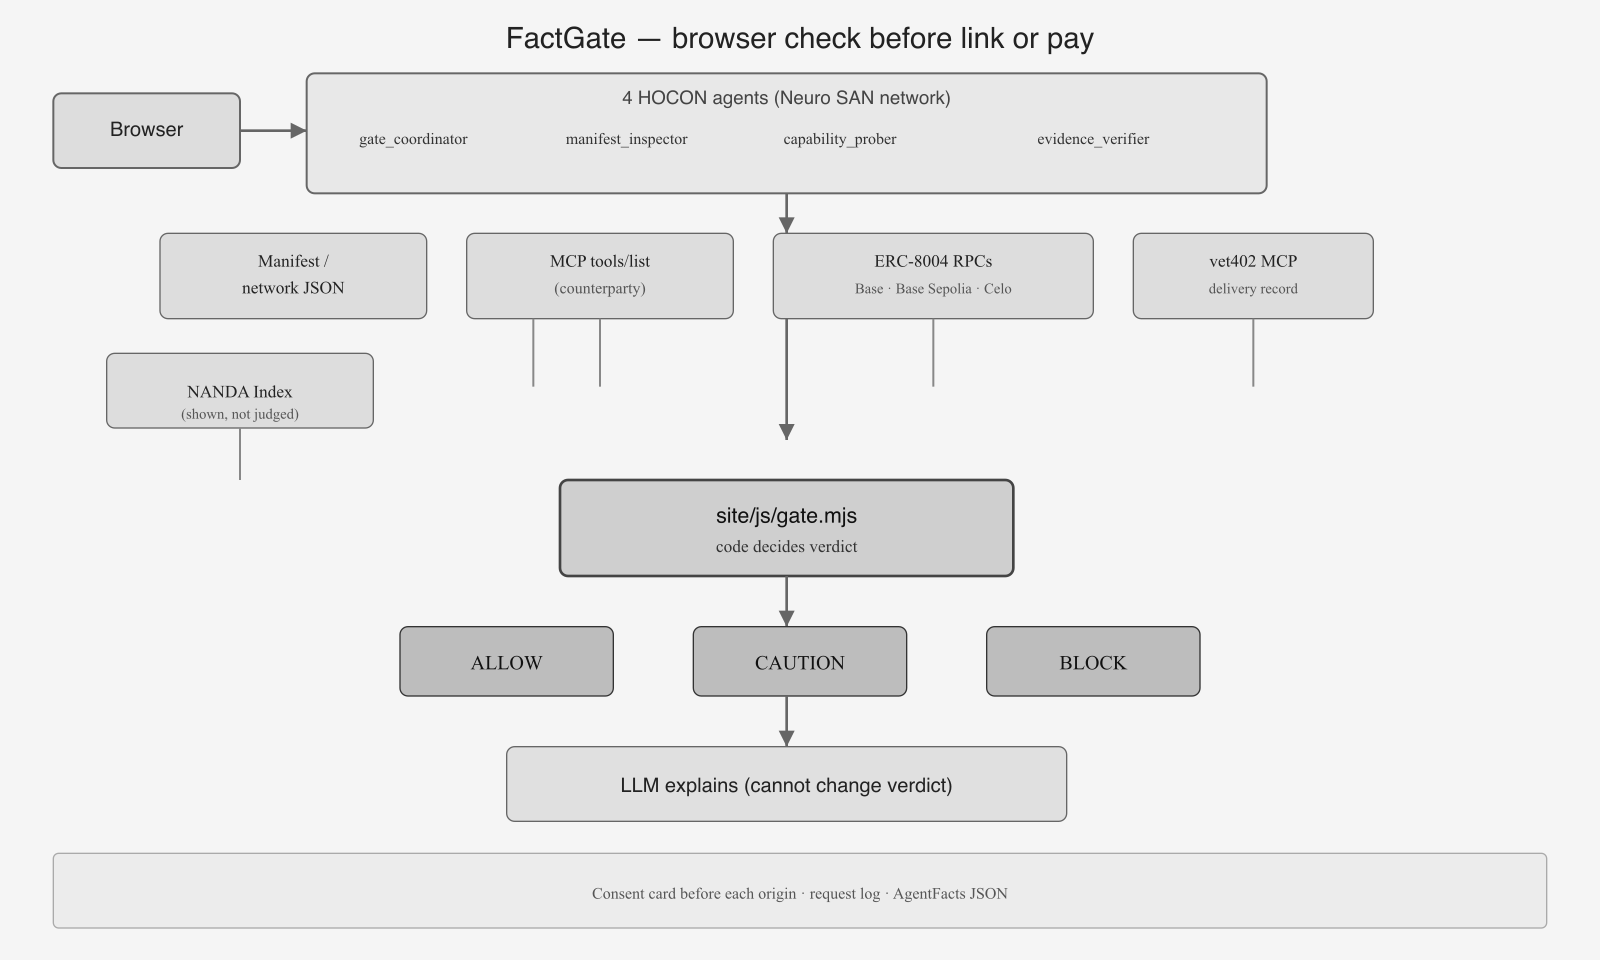
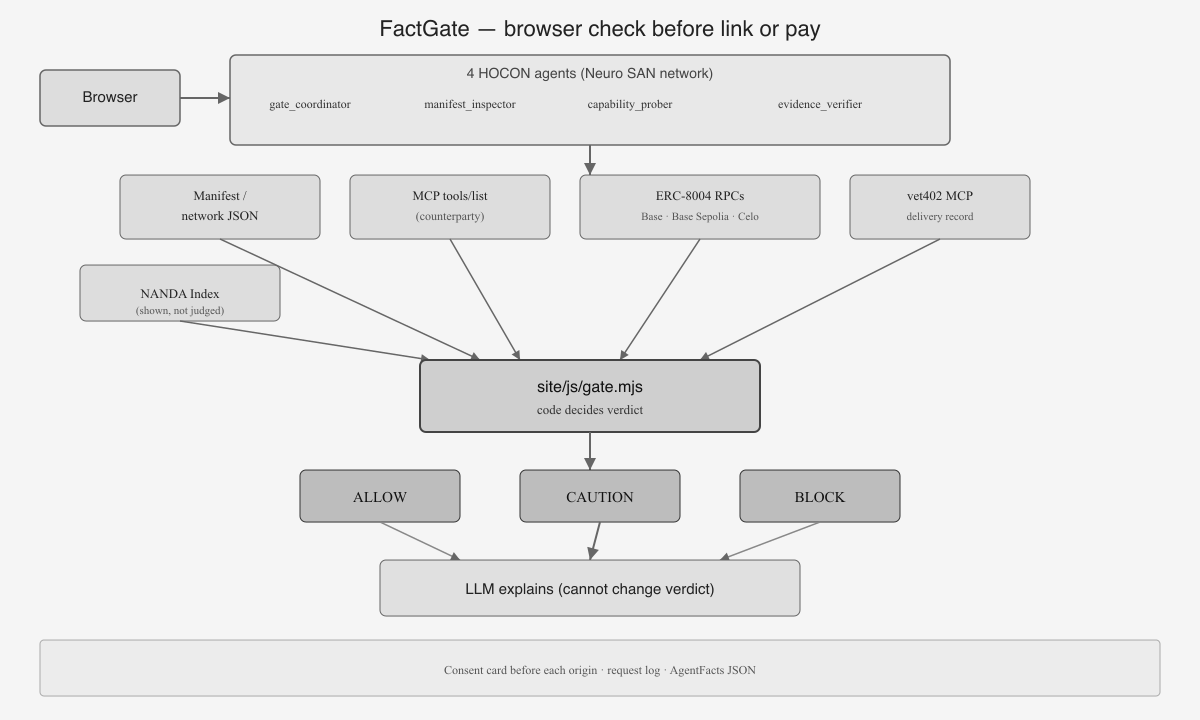
final audit fixes

diff --git a/site/js/app.js b/site/js/app.js
@@ -11,6 +11,30 @@ import { DEFAULT_VALIDATORS, normalizeTrusted } from "./validators.mjs";
 
 export { VET402_MCP } from "./gatecheck.mjs";
 
+/**
+ * Visibly retire the previous verdict card while a new check waits on consent.
+ */
+export function supersedeResultBox(box, doc = typeof document !== "undefined" ? document : null) {
+  if (!box || box.hidden || !doc) {
+    return false;
+  }
+  box.classList.add("result-superseded");
+  box.dataset.superseded = "true";
+  if (!box.querySelector(".result-superseded-note")) {
+    const note = doc.createElement("p");
+    note.className = "result-superseded-note";
+    note.textContent = "Previous check — replaced when this one finishes.";
+    if (typeof box.prepend === "function") {
+      box.prepend(note);
+    } else if (box.firstChild) {
+      box.insertBefore(note, box.firstChild);
+    } else {
+      box.appendChild(note);
+    }
+  }
+  return true;
+}
+
 const VALIDATORS_KEY = "factgate.trustedValidators.v1";
 
 function pageFetch(url, init) {
@@ -263,6 +287,12 @@ class GatePage {
     }
     const card = verdictCard(result);
     box.hidden = false;
+    box.classList.remove("result-superseded");
+    delete box.dataset.superseded;
+    const oldNote = box.querySelector(".result-superseded-note");
+    if (oldNote) {
+      oldNote.remove();
+    }
     box.className = `result result-${card.verdict.toLowerCase()}`;
     // First line: what to do. The verdict word and the target follow.
     document.querySelector("#full-action").textContent = card.action;
@@ -512,6 +542,7 @@ export class App {
       // A URL is checked as is; anything else is a NANDA Index id, orgId or name to look up.
       const target = /^https?:\/\//i.test(typed) ? { url: typed } : { nanda: typed };
       status.textContent = "Waiting for your approval before anything is contacted…";
+      supersedeResultBox(document.querySelector("#full-result"));
       document.querySelector("#run-check").disabled = true;
       try {
         const out = await App.page.gateCheck(agentId ? { ...target, agentId, chainId } : target);

diff --git a/site/styles.css b/site/styles.css
@@ -86,6 +86,8 @@ button.try small { font-weight: 400; color: var(--muted); font-size: 12px; }
 .result-allow .action-line { color: var(--allow); }
 .result-caution .action-line { color: var(--caution); }
 .result-block .action-line { color: var(--block); }
+.result-superseded { opacity: 0.45; pointer-events: none; }
+.result-superseded-note { font-size: 0.9rem; color: var(--muted); margin: 0 0 12px; }
 .measured { display: grid; grid-template-columns: repeat(2, minmax(0, 1fr)); gap: 12px; margin: 14px 0 0; }
 .measured > div { border: 1px solid var(--line); border-radius: 12px; padding: 10px 14px; background: var(--bg); min-width: 0; }
 .measured > div[hidden] { display: none; }

diff --git a/README.md b/README.md
@@ -16,11 +16,11 @@ Code decides **ALLOW / CAUTION / BLOCK**. The model only explains.
 
 | Verified Stay | Glossy Stay | agent402.tools (real x402 seller) |
 |---|---|---|
-| ALLOW → booked VS-0001 — [Stay Steward](https://stay-steward-demo.vercel.app/) | BLOCK → never loaded | ALLOW (3 of 3 delivered, vet402 record, checked 2026-11-22) |
+| ALLOW → booked VS-0001 — [Stay Steward](https://stay-steward-demo.vercel.app/) | BLOCK → never loaded | ALLOW (every paid call delivered, vet402 record, checked 2026-11-22) |
 
 ### Measured on 2026-11-22
 
-On 2026-11-22 the deployed page measured agent402.tools as **ALLOW** because it answered as declared, `payTo` matched ERC-8004 agent 94639 on Base, and **vet402**, the author's own service, recorded 3 of 3 paid calls delivered. **Glossy Stay** is a fictional demo and was **BLOCK**, so Stay Steward refused to load it. The same day a local run (`evidence/live/SUMMARY.json`) measured five contest-listed sites as **CAUTION** (identity unknown): unchecked, not safe.
+On 2026-11-22 the deployed page measured agent402.tools as **ALLOW** because it answered as declared, `payTo` matched ERC-8004 agent 94639 on Base, and **vet402**, the author's own service, recorded every paid call delivered (vet402 record; the card shows the last delivery date). **Glossy Stay** is a fictional demo and was **BLOCK**, so Stay Steward refused to load it. The same day a local run (`evidence/live/SUMMARY.json`) measured five contest-listed sites as **CAUTION** (identity unknown): unchecked, not safe.
 
 The result that still runs on the live sites through judging is **Verified Stay booked (VS-0001)** and **Glossy Stay not loaded**. vet402 re-checks this seller before judging; the card shows the last delivery date. Delivery counts today come only from the author's **vet402** and the author's recomputable validator.
 
@@ -78,13 +78,7 @@ The four sites are static (Vercel), each on its own origin. `deploy/build-public
 
 ## Compared with the five tools already listed
 
-| | Agent Atlas | NandaSeal | Agent Customs | Agent Crash Test | Three Numbers | **FactGate** |
-| --- | --- | --- | --- | --- | --- | --- |
-| What it checks | Manifest format | Self-signed facts in the browser | Static prompt-injection scan | Your own site's confirm dialogs | XRPL escrow counts | Live answers vs declarations, on-chain identity vs payee, delivery after payment |
-| Calls the counterparty's endpoints | Manifest only | No | No | Your own site | No | Manifest, network, MCP `tools/list`, x402 terms, paid resource |
-| Reads identity on chain | No | No | No | No | No (reads XRPL escrow counts) | ERC-8004 owner / agentWallet, pinned block |
-| Evidence that paid calls delivered | No | No | No | No | Counts only | vet402 records + trusted ValidationRegistry scores |
-| Verdict before linking or paying | No | No | Static only | No | No | ALLOW / CAUTION / BLOCK, used by a partner site's gate |
+**Agent Atlas** checks manifest format. **NandaSeal** records self-signed facts in the browser. **Agent Customs** runs a static prompt-injection scan. **Agent Crash Test** exercises confirm dialogs on your own site. **Three Numbers** reads XRPL escrow counts. **FactGate** checks live answers against declarations, on-chain identity against the x402 payee, and delivery after payment, then returns ALLOW / CAUTION / BLOCK before a partner site links or pays (used by Stay Steward's page-code gate).
 
 ## Try it
 
@@ -94,7 +88,7 @@ Verdicts measured on 2026-11-22 06:57 UTC (`node scripts/probe-live.mjs --peers`
 
 | Counterparty | Verdict | Why |
 | --- | --- | --- |
-| agent402.tools/api/weather-forecast (real x402 seller) | ALLOW (3 of 3 delivered, vet402 record, checked 2026-11-22) (Link / pay: OK) | Answers as declared; payTo = ERC-8004 agent 94639's owner and agentWallet on Base; vet402 delivered 3 of 3 paid calls |
+| agent402.tools/api/weather-forecast (real x402 seller) | ALLOW (every paid call delivered, vet402 record, checked 2026-11-22) (Link / pay: OK) | Answers as declared; payTo = ERC-8004 agent 94639's owner and agentWallet on Base; every paid call delivered (vet402 record; the card shows the last delivery date) |
 | vet402.com (the author's own service) | ALLOW (Link / pay: OK) | No payment asked; the site and its ERC-8004 registration point at each other (rule C-1) |
 | Verified Stay (fictional demo, local) | ALLOW (Link / pay: OK) | payTo = agent 10798's wallet on Base Sepolia; trusted validations passed 79 / below 70 0 (the Delivery Court judge) |
 | Glossy Stay (fictional demo, local) | BLOCK (Do not pay) | payTo is not its own declared wallet nor agent 10799's; the paid resource answers an empty body; trusted validations passed 1 / below 70 1 (a score of 3) |
@@ -102,7 +96,7 @@ Verdicts measured on 2026-11-22 06:57 UTC (`node scripts/probe-live.mjs --peers`
 | Five agentic websites from the contest's list | CAUTION: identity_unknown | Answer as declared; none declares an ERC-8004 registration, so identity is not measured |
 | The contest organizer's widget | CAUTION: unreachable, identity_unknown, no_delivery_record | Its manifest answers without `Access-Control-Allow-Origin`, so a browser cannot read it |
 
-None of these is in the NANDA Index (138 records searched on 2026-11-22T22:04:45Z via `api.nandaindex.org/api/v1/index`, limit 200, offset paging; 102 with `cardValidation` null or missing, 36 with a non-null `cardValidation`). A listed example: `Heron A2A Checker` (`urn:air:heron.ing:catalog:root`) shows "NANDA: listed, card not validated" on the card; its own site did not answer the browser, so it is CAUTION (unreachable, identity_unknown, no_delivery_record).
+None of these is in the NANDA Index (when checked on 2026-11-22: 102 of 138 had no card validation, via `api.nandaindex.org/api/v1/index`, limit 200, offset paging). A listed example: `Heron A2A Checker` (`urn:air:heron.ing:catalog:root`) shows "NANDA: listed, card not validated" on the card; its own site did not answer the browser, so it is CAUTION (unreachable, identity_unknown, no_delivery_record).
 
 ## Run it
 
@@ -203,7 +197,7 @@ Stay Steward (`~/factgate-peers`) uses a byte-identical copy (`stay-steward/js/f
 | `site/factgate-gate.mjs` | The gate other sites load (policy, page-code check) |
 | `site/js/card.mjs`, `app.js`, `index.html`, `styles.css` | The page |
 | `site/factgate.hocon`, `agent-manifest.json`, `site-actions.js`, `bridge/` | The agentic website (network, manifest, actions, bridge) |
-| `site/runtime/` | The reference runtime, unchanged |
+| `site/runtime/` | Reference runtime with `settingsDefaultClosed` in `ui.js` (AI model settings start closed on the page) |
 | `scripts/probe-live.mjs`, `cors-fetch.mjs` | Live measurement with the browser's CORS rules |
 | `evidence/live/` | Measured results |
 
@@ -230,7 +224,7 @@ node --test "*/tests/*.test.mjs" "tests/*.test.mjs"
 
 | Suite | Expected (2026-11-22) |
 | --- | --- |
-| `node --test "test/*.test.mjs" "site/tests/*.test.mjs"` (in `factgate`) | 185: 178 pass, 0 fail, 7 skipped (template tests for irreversible actions; FactGate has none) |
+| `node --test "test/*.test.mjs" "site/tests/*.test.mjs"` (in `factgate`) | 183: 176 pass, 0 fail, 7 skipped (template tests for irreversible actions; FactGate has none) |
 | `node --test "*/tests/*.test.mjs" "tests/*.test.mjs"` (in `factgate-peers`, with `../factgate`) | 55: 55 pass, 0 fail (10 three-site end-to-end tests, 2 of those run the no-model button) |
 
 ## Limits

diff --git a/GRADER_FACTS.md b/GRADER_FACTS.md
@@ -31,14 +31,14 @@ MVP spec section 6 (each with the test or screen that shows it; details in READM
 
 An open agentic website that checks a counterparty (an agentic website, a NANDA-indexed agent, or an x402 seller) before an agent links to it or pays it. For a site with no ERC-8004 registration it still shows, before connecting, whether the site answers as declared, whether its agent instructions are safe and whether it can be reached. Runs entirely in the browser (no server code). Every contact goes through a consent card that lists each destination origin and what it gets, allowed or declined row by row; a redirect to another origin is a new destination that needs its own card. Returns a deterministic ALLOW / CAUTION / BLOCK (code decides, the LLM only explains; evaluate_gate and save_check take only the ID of a check page code measured, never pillar values a model wrote). The card's first line is an action (Link / pay: OK, Do not pay, Do not link, Unchecked — do not treat as safe); CAUTION means unchecked and names what was not measured (identity_unknown, unreachable, steering, no_delivery_record, ...) and an AgentFacts JSON (field names from arXiv:2507.14263 appendix; extensions prefixed x_factgate_).
 
-The author scheduled vet402 (the author's own service) to buy `https://agent402.tools/api/weather-forecast` once on 2027-01-11/12 UTC so the 30-day delivery window covers judging (2027-01-12..18); pillar 3 on the card shows when vet402 last saw content come back (e.g. Last delivered: 2026-11-07).
+The author scheduled vet402 (the author's own service) to buy `https://agent402.tools/api/weather-forecast` once on 2027-01-10 UTC so the 30-day delivery window covers judging (2027-01-11 10:00 PT through 2027-01-18 17:00 PT); pillar 3 on the card shows when vet402 last saw content come back (e.g. Last delivered: 2026-11-07).
 
 Three pillars:
 1. Live probe: manifest (spec 3.3), network, declared MCP `initialize`→`tools/list`, x402 terms (never paid), paid resource, and a static scan of the instructions a caller would load (steering = CAUTION, asking for keys = BLOCK). Unreachable over CORS is recorded as such (no proxy).
 2. Identity binding: ERC-8004 IdentityRegistry via eth_call (Base, Base Sepolia, Celo), pinned to one block, compared with the 402 payTo. A free site passes when pillar 1 passes and the site and its registration point at each other.
 3. Delivery evidence: vet402.com production records, and ERC-8004 ValidationRegistry scores from trusted validators only (`validators.json`; today it lists one validator, the Delivery Court judge, which is the author's own, recomputable with a public script). vet402 is also the author's own service; the card says so next to pillar 3. When vet402 returns `evidence_age.last_delivered_at`, the card shows one freshness line (e.g. Last delivered: 2026-11-07 (vet402 window: 30 days)) and AgentFacts carries `x_factgate_vet402_last_delivered`. Others' scores shown, not counted. Free targets: "not applicable", never called a pass.
 
-NANDA Index: manifest_inspector and every check read api.nandaindex.org/api/v1/index and show one matching record ("NANDA: listed, card not validated" when its cardValidation is null); input may be a NANDA id or name. Shown, not counted. As of 2026-11-22T22:04:45Z the index held 138 records (same limit/offset paging as `site/js/nanda.mjs`): 102 with `cardValidation` null or missing, 36 with non-null `cardValidation`.
+NANDA Index: manifest_inspector and every check read api.nandaindex.org/api/v1/index and show one matching record ("NANDA: listed, card not validated" when its cardValidation is null); input may be a NANDA id or name. Shown, not counted. When checked on 2026-11-22: 102 of 138 had no card validation (same limit/offset paging as `site/js/nanda.mjs`).
 
 Reusable component: `site/factgate-gate.mjs` (one file, three lines to install) puts FactGate's gate in front of any reference-runtime site, with a policy (default: no CAUTION passes).
 
@@ -46,9 +46,9 @@ Composition demo (fictional sites, author-run, disclosed): Stay Steward calls Fa
 
 Deployed results (2026-11-22 07:12 UTC, page origin https://factgate.vercel.app, `node scripts/probe-live.mjs --public`, `evidence/public/SUMMARY.json`): agent402.tools = ALLOW; Verified Stay (verified-stay-demo.vercel.app) = ALLOW (validations passed 79 / below 70 0); Glossy Stay (glossy-stay-demo.vercel.app) = BLOCK (passed 1 / below 70 1); Stay Steward (stay-steward-demo.vercel.app) = CAUTION (identity_unknown). Same verdicts and reason codes as the local run. In a browser (Chromium, 1440 px and 390 px), the deployed Stay Steward's "Check with FactGate" with no key booked Verified Stay in its own window (VS-0001) and stopped before loading Glossy Stay (BLOCK).
 
-Local results (2026-11-22 06:57 UTC, `evidence/live/SUMMARY.json`): agent402.tools = ALLOW; vet402.com (author's own) = ALLOW via the mutual-binding rule; Verified Stay = ALLOW (validations passed 79 / below 70 0); Glossy Stay = BLOCK (passed 1 / below 70 1); Stay Steward = CAUTION (identity_unknown); five contest-listed sites = CAUTION (identity_unknown); organizer's widget = CAUTION (unreachable: manifest not CORS-readable). None of them is in the NANDA Index (138 records searched 2026-11-22T22:04:45Z; 102 card not validated, 36 with cardValidation set).
+Local results (2026-11-22 06:57 UTC, `evidence/live/SUMMARY.json`): agent402.tools = ALLOW; vet402.com (author's own) = ALLOW via the mutual-binding rule; Verified Stay = ALLOW (validations passed 79 / below 70 0); Glossy Stay = BLOCK (passed 1 / below 70 1); Stay Steward = CAUTION (identity_unknown); five contest-listed sites = CAUTION (identity_unknown); organizer's widget = CAUTION (unreachable: manifest not CORS-readable). None of them is in the NANDA Index (when checked on 2026-11-22: 102 of 138 had no card validation).
 
-Tests: FactGate 185 (178 pass, 0 fail, 7 skipped: irreversible-action template tests, not applicable), including the redirect and model-value reproductions and README/script round-6/7/8/9/10 submission checks. Demo sites 55 (55 pass), including 10 three-site end-to-end tests (8 with a scripted model, 2 with the no-model button).
+Tests: FactGate 183 (176 pass, 0 fail, 7 skipped: irreversible-action template tests, not applicable), including the redirect and model-value reproductions and README submission round-6/7/8/9 checks — run `node --test "test/*.test.mjs" "site/tests/*.test.mjs"`. Demo sites 55 (55 pass, 0 fail), including 10 three-site end-to-end tests (8 with a scripted model, 2 with the no-model button) — run `node --test "*/tests/*.test.mjs" "tests/*.test.mjs"`.
 
 Competitors already listed: Agent Atlas (manifest format check), NandaSeal (browser self-signed facts), Agent Customs (static prompt-injection scan), Agent Crash Test (own-site confirm dialogs), Three Numbers (XRPL escrow counts).
 

diff --git a/docs/devpost.md b/docs/devpost.md
@@ -10,6 +10,6 @@ The result that still runs on the live sites through judging is **Verified Stay 
 
 For an agent builder about to load a partner agent site or pay an x402 seller, the card says what to do before the link.
 
-Open Stay Steward, press Check with FactGate, and allow the cards. Verified Stay books VS-0001 in its own window. Glossy Stay stops at Do not pay.
+Open Stay Steward (allow pop-ups for stay-steward-demo.vercel.app when asked), press Check with FactGate, and allow the cards. Verified Stay books VS-0001 in its own window. Glossy Stay stops at Do not pay.
 
 The only BLOCK a judge can repeat through 2027-01-18 is fictional Glossy Stay. Five real contest sites measured on 2026-11-22 were CAUTION (identity unknown), not blocked.
